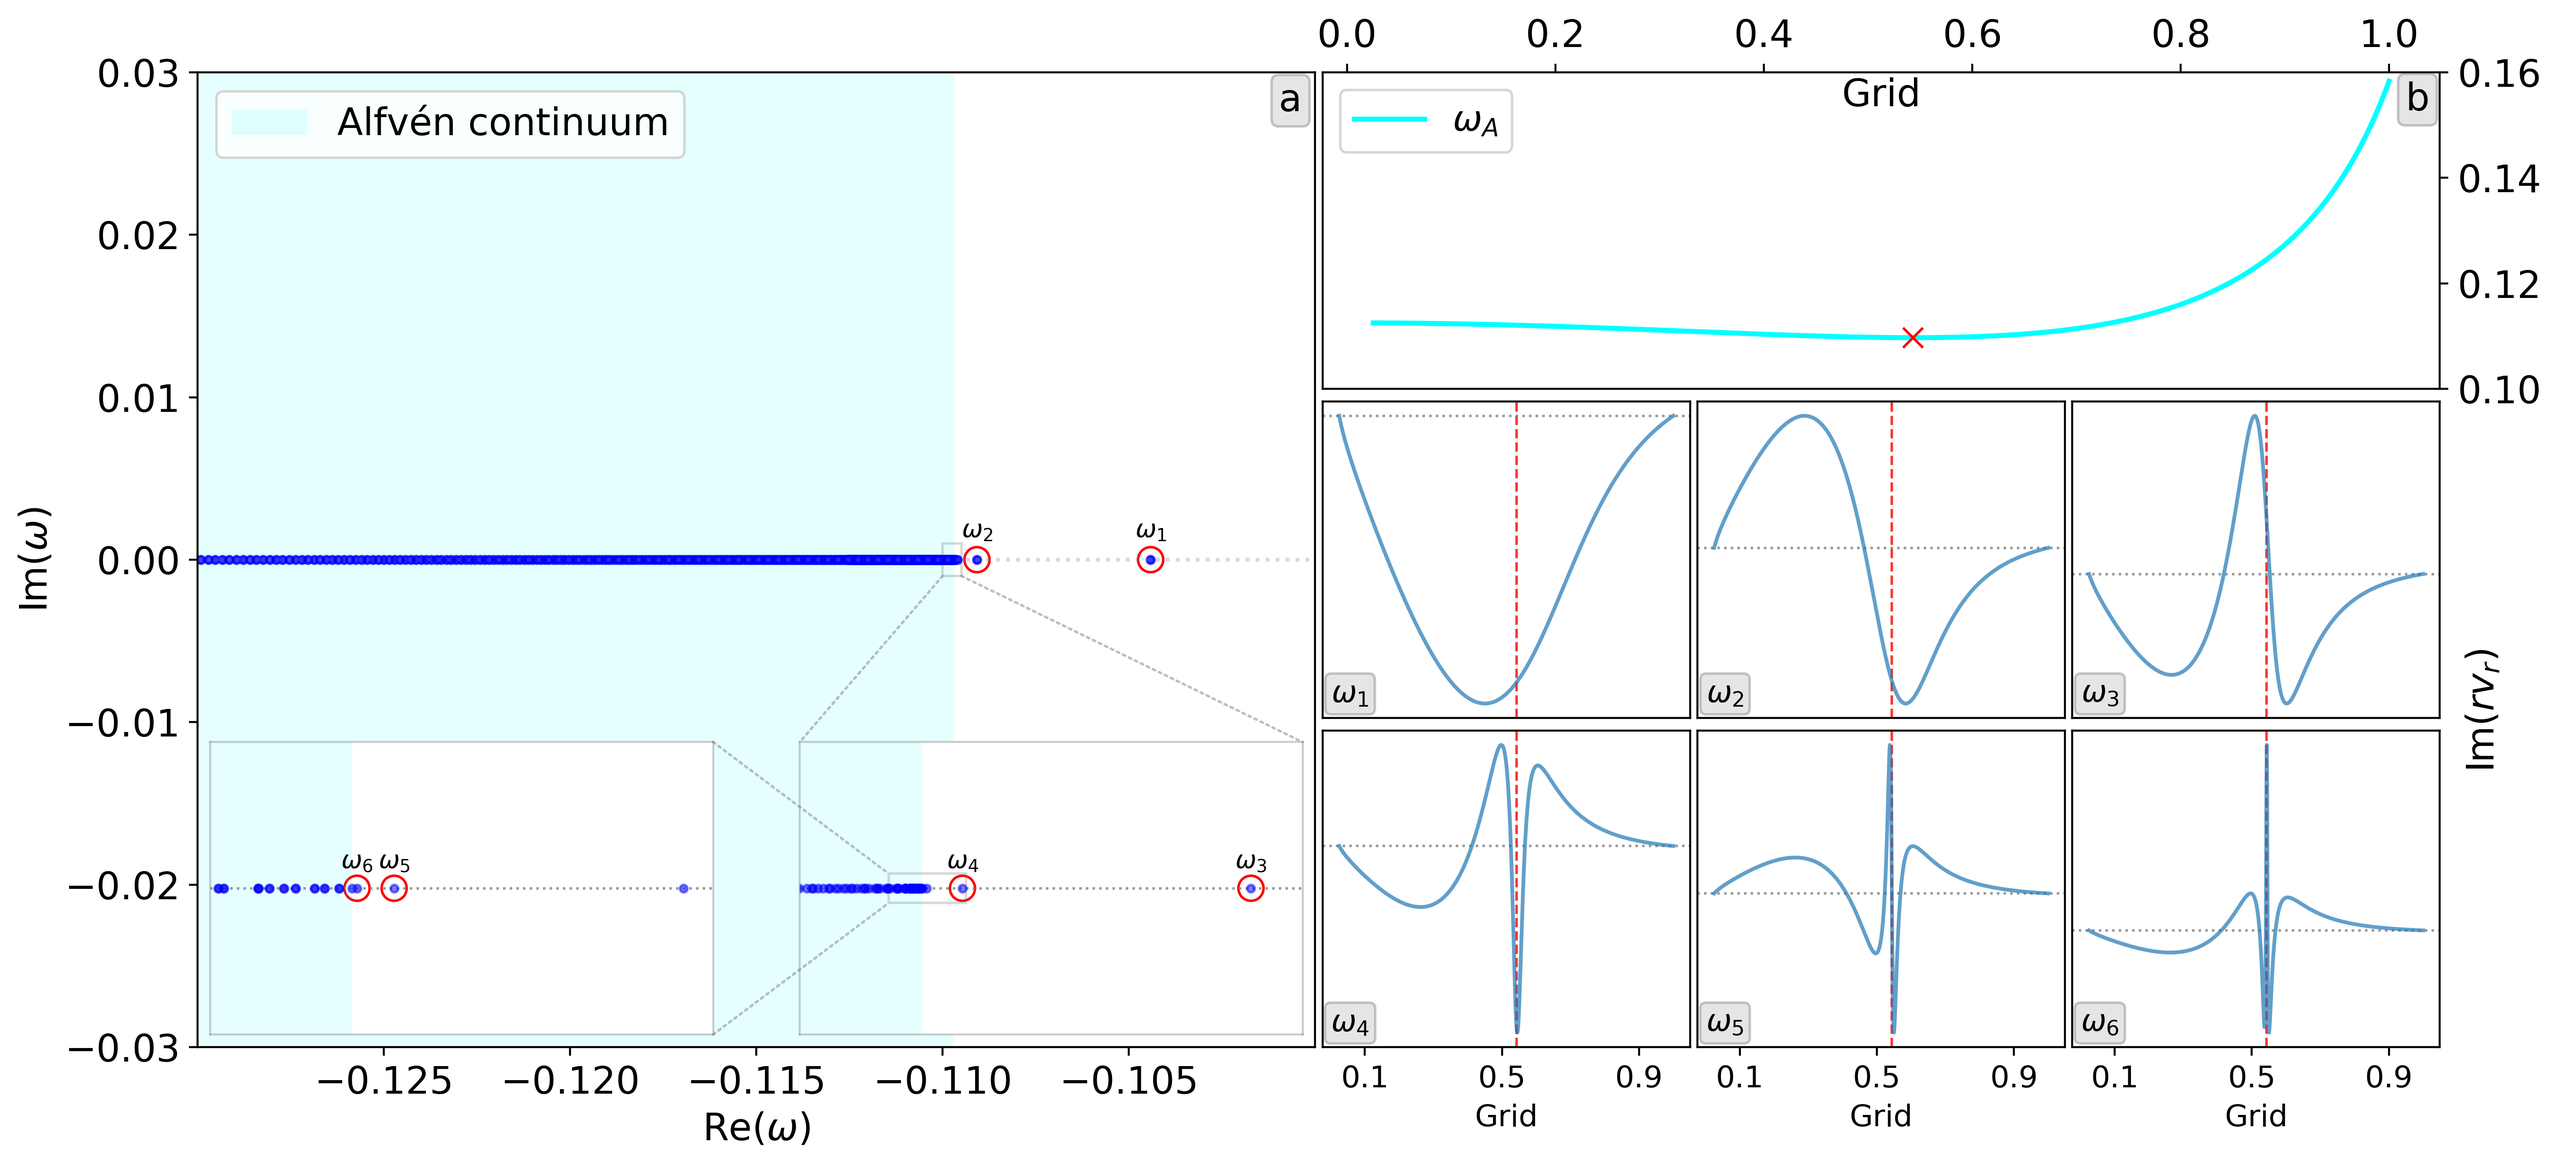
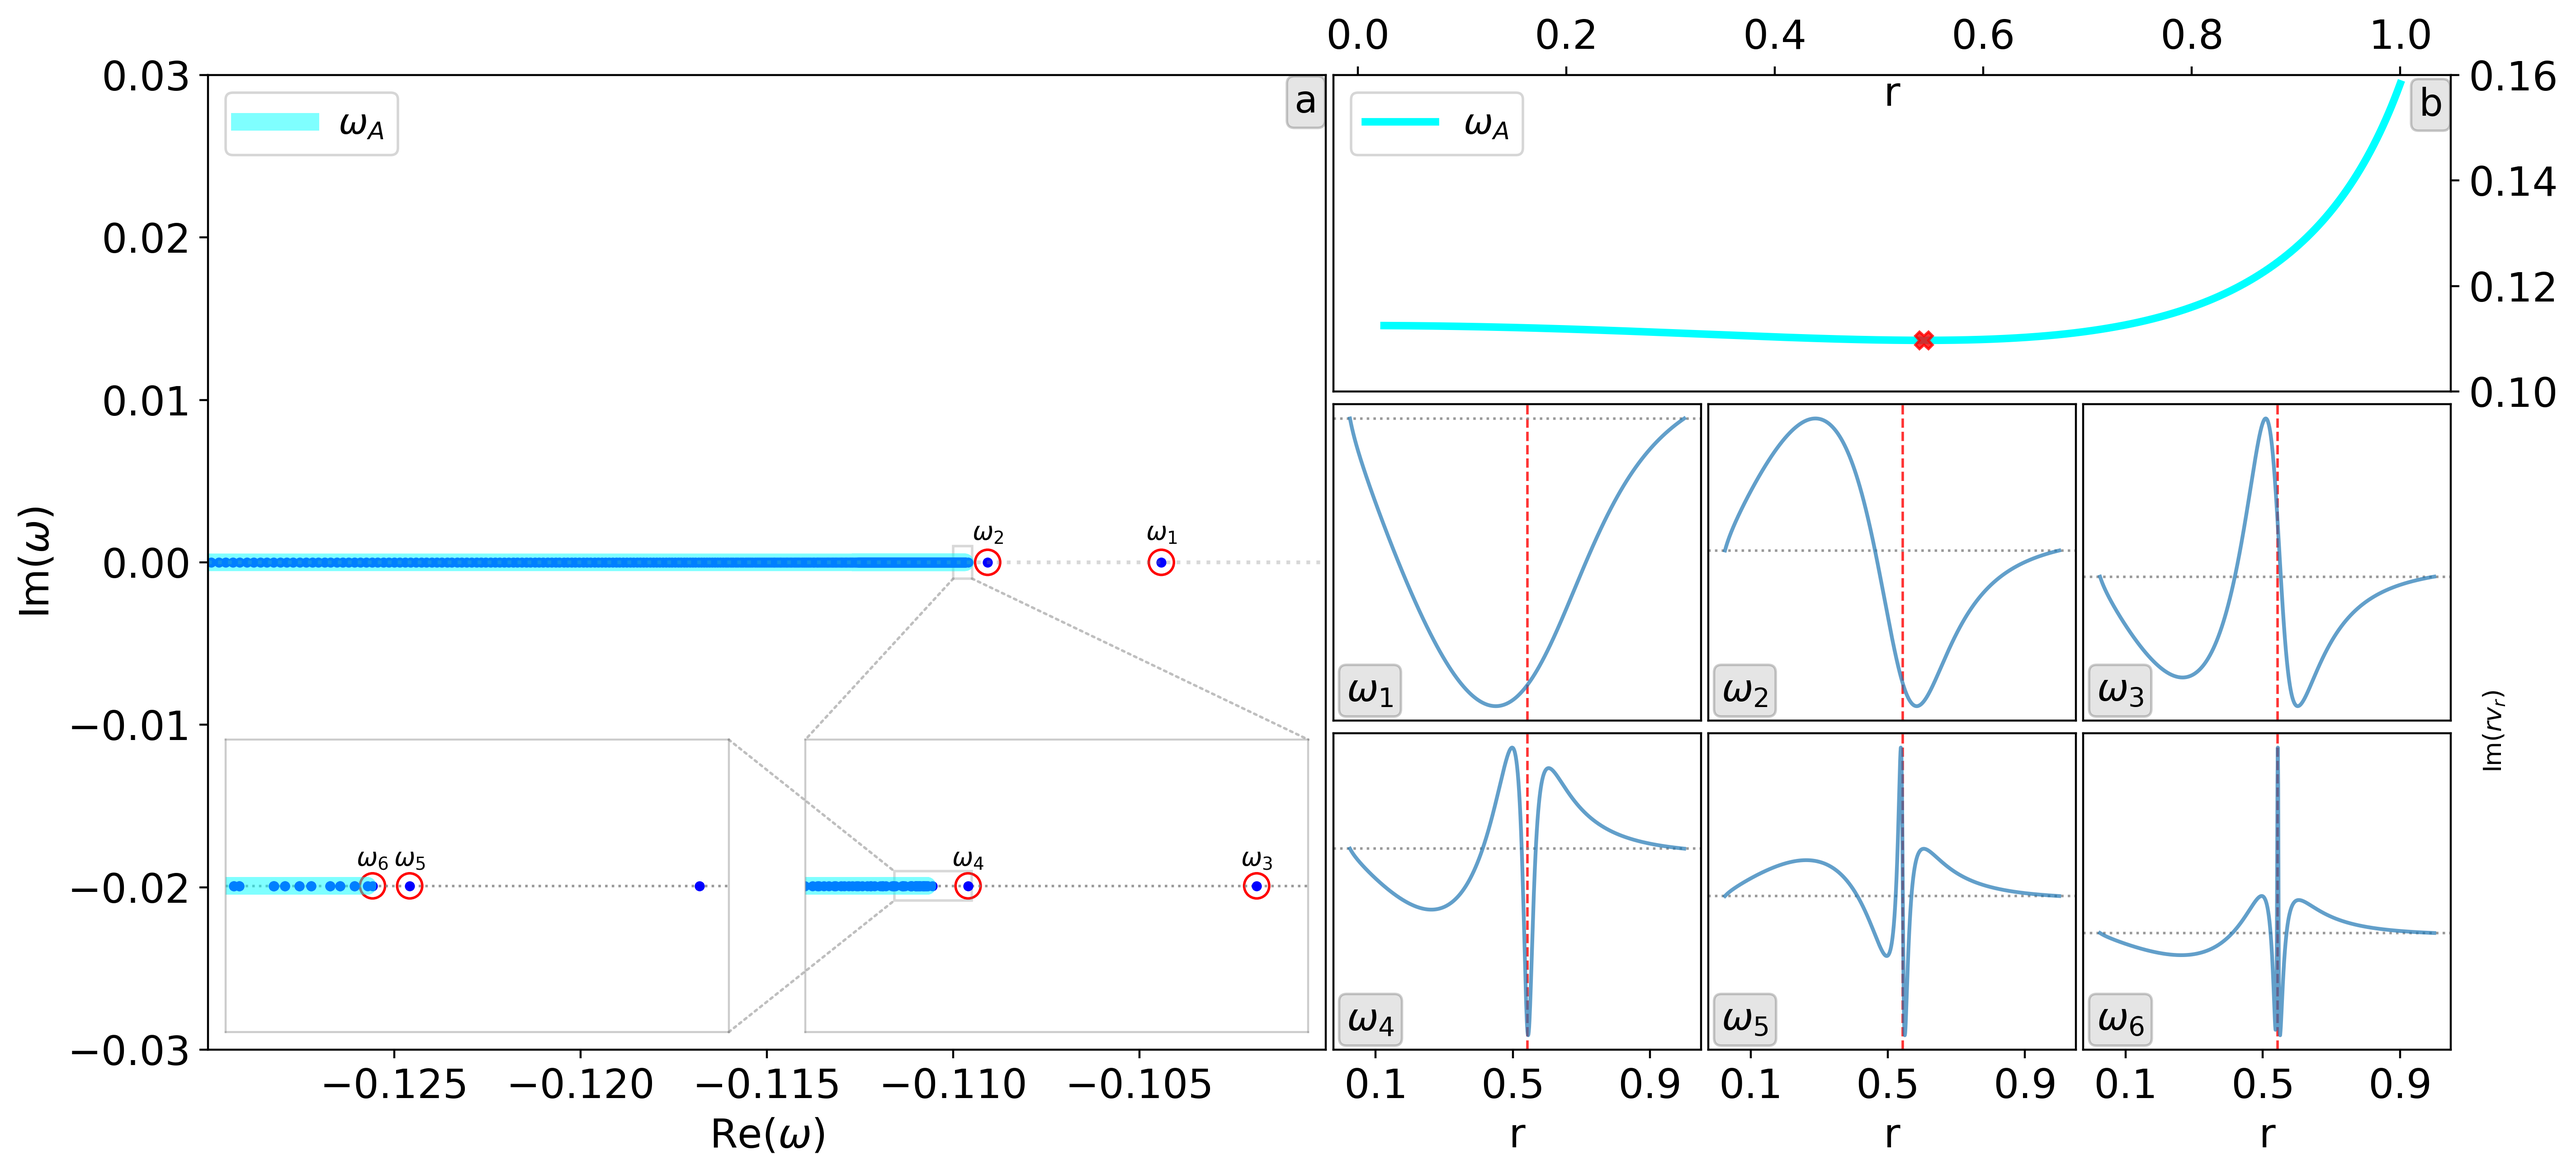
regenerated discrete alfven figure

diff --git a/notebooks/chapter5_figures.py b/notebooks/chapter5_figures.py
@@ -1,5 +1,6 @@
 import numpy as np
 import matplotlib.pyplot as plt
+import matplotlib.patches as patches
 from mpl_toolkits.axes_grid1.inset_locator import inset_axes
 from pathlib import Path
 import pylbo
@@ -59,7 +60,6 @@ def quasi_parker_figure():
         inset.set_yticks(yticks[idx])
         inset.yaxis.tick_right()
         inset.tick_params(axis="x", direction="in", pad=-15)
-        inset.tick_params(axis="both", labelsize=12)
         for side in ["left", "right", "top", "bottom"]:
             inset.spines[side].set_color("grey")
             inset.spines[side].set_alpha(0.4)
@@ -131,9 +131,208 @@ def quasi_parker_figure():
     plt.show()
 
 
+def discrete_alfven_figure():
+    filedir = (datadir / "11_discrete_alfven_efs/datfiles").resolve()
+    ds = pylbo.load(*sorted(filedir.glob("*.dat")))
+
+    fig, axes = plt.subplots(3, 6, figsize=(16, 7))
+    grid = axes[0, 1].get_gridspec()
+    [ax.remove() for ax in axes[:, 0:3].flatten()]
+    axl = fig.add_subplot(grid[:, 0:3])
+    [ax.remove() for ax in axes[0, 3::]]
+    axt = fig.add_subplot(grid[0, 3::])
+    mini_axes = axes[1::, 3::]
+
+    insetl = inset_axes(axl, width="45%", height="30%", loc="lower left")
+    insetr = inset_axes(axl, width="45%", height="30%", loc="lower right")
+
+    axl.plot(ds.eigenvalues.real, ds.eigenvalues.imag, ".b", alpha=1)
+    axl.axhline(y=0, linestyle="dotted", color="grey", alpha=0.3)
+    axl.axvline(x=0, linestyle="dotted", color="grey", alpha=0.3)
+    wa = ds.continua["alfven-"]
+    axl.plot(
+        np.real(wa), np.imag(wa), color="cyan", lw=7, alpha=0.5, label=r"$\omega_A$"
+    )
+    y1, y2 = -0.03, 0.03
+    insetr.set_xlim(-0.10972, -0.10959)
+    insetl.set_xlim(-0.109693, -0.109677)
+    for inset in (insetr, insetl):
+        inset.set_ylim(y1, y2)
+        inset.axhline(y=0, color="grey", linestyle="dotted", lw=1, alpha=0.8)
+        inset.plot(ds.eigenvalues.real, ds.eigenvalues.imag, ".b", alpha=1)
+        inset.set_xticks([])
+        inset.set_yticks([])
+        for side in ["left", "right", "top", "bottom"]:
+            inset.spines[side].set_color("grey")
+            inset.spines[side].set_alpha(0.4)
+        inset.plot(
+            np.real(wa),
+            np.imag(wa),
+            color="cyan",
+            lw=7,
+            alpha=0.5,
+            label=r"$\omega_A$",
+        )
+    insetr_bounds = patches.Rectangle(
+        (-0.11, -0.001),
+        width=5e-4,
+        height=0.002,
+        facecolor="none",
+        edgecolor="grey",
+        linestyle="solid",
+        alpha=0.3,
+        lw=1,
+    )
+    insetl_bounds = patches.Rectangle(
+        (-0.109697, -0.003),
+        width=2e-5,
+        height=0.006,
+        facecolor="none",
+        edgecolor="grey",
+        linestyle="solid",
+        alpha=0.3,
+        lw=1,
+    )
+    axl.add_patch(insetr_bounds)
+    insetr.add_patch(insetl_bounds)
+    axl.legend(loc="upper left")
+    cp1 = patches.ConnectionPatch(
+        (-0.11, -0.001),
+        (0, 1),
+        coordsA="data",
+        coordsB="axes fraction",
+        axesA=axl,
+        axesB=insetr,
+        linestyle="dotted",
+        color="grey",
+        alpha=0.5,
+    )
+    cp2 = patches.ConnectionPatch(
+        (-0.11 + 5e-4, -0.001),
+        (1, 1),
+        coordsA="data",
+        coordsB="axes fraction",
+        axesA=axl,
+        axesB=insetr,
+        linestyle="dotted",
+        color="grey",
+        alpha=0.5,
+    )
+    cp3 = patches.ConnectionPatch(
+        (1, 1),
+        (-0.109697, 0.003),
+        coordsA="axes fraction",
+        coordsB="data",
+        axesA=insetl,
+        axesB=insetr,
+        linestyle="dotted",
+        color="grey",
+        alpha=0.5,
+    )
+    cp4 = patches.ConnectionPatch(
+        (1, 0),
+        (-0.109697, -0.003),
+        coordsA="axes fraction",
+        coordsB="data",
+        axesA=insetl,
+        axesB=insetr,
+        linestyle="dotted",
+        color="grey",
+        alpha=0.5,
+    )
+    axl.add_artist(cp1)
+    axl.add_artist(cp2)
+    insetr.add_artist(cp3)
+    insetr.add_artist(cp4)
+
+    wa_min_idx = ds.continua["alfven+"].argmin()
+    axt.plot(ds.grid_gauss, -wa, color="cyan", lw=3, label=r"$\omega_A$")
+    axt.plot(
+        ds.grid_gauss[wa_min_idx],
+        -wa[wa_min_idx],
+        color="red",
+        marker="X",
+        markersize=7,
+        alpha=0.8,
+    )
+    axt.set_ylim(0.10, 0.16)
+    axt.yaxis.tick_right()
+    axt.xaxis.tick_top()
+    axt.xaxis.set_label_position("top")
+    axt.set_xlabel("r", labelpad=-35)
+    axt.legend(loc="upper left")
+
+    axl.set_xlabel(r"Re($\omega$)")
+    axl.set_ylabel(r"Im($\omega$)")
+    axl.set_xlim([-0.13, -0.1])
+    axl.set_xticks(np.arange(-0.125, -0.104, 0.005))
+    axl.set_ylim([-0.03, 0.03])
+
+    ev_guesses = [
+        -0.1044 + 1.7261e-7j,
+        -0.1091 + 6.6883e-8j,
+        -0.1096 + 8.3800e-9j,
+        -0.109678 + 2.53365e-9j,
+        -0.109687 + 3.77786e-10j,
+        -0.109688 + 7.44559e-11j,
+    ]
+    _, evs = ds.get_nearest_eigenvalues(ev_guesses)
+    for i, ev in enumerate(evs, start=1):
+        print("Eigenvalue found: {}".format(ev))
+        ax = axl
+        margin = 1.8e-3
+        text = r"$\omega_{}$".format(i)
+        if i > 2:
+            ax = insetr
+            margin = 5.5e-3
+        if i > 4:
+            ax = insetl
+            margin = 5.5e-3
+        ax.scatter(ev.real, ev.imag, s=100, edgecolor="red", facecolor="none")
+        ax.text(
+            ev.real,
+            ev.imag + margin,
+            text,
+            verticalalignment="center",
+            horizontalalignment="center",
+        )
+    eigfuncs = ds.get_eigenfunctions(ev_guesses=ev_guesses)
+    for i, ax in enumerate(mini_axes.flatten()):
+        ax.axvline(
+            x=ds.grid_gauss[wa_min_idx],
+            color="red",
+            linestyle="dashed",
+            lw=1,
+            alpha=0.8,
+        )
+        ax.axhline(y=0, color="grey", linestyle="dotted", lw=1, alpha=0.8)
+        rvr = eigfuncs[i].get("v1").imag * ds.ef_grid
+        ax.plot(ds.ef_grid, rvr, alpha=0.7)
+        ax.set_xticks([])
+        ax.set_yticks([])
+        text = r"$\omega_{}$".format(i + 1)
+        add_panel_label(ax, text, loc="bottom left")
+    for ax in mini_axes[-1, :]:
+        ax.set_xticks([0.1, 0.5, 0.9])
+        ax.set_xlabel("r")
+    fig.text(0.915, 1 / 3, r"Im$(rv_r)$", ha="center", rotation="vertical")
+
+    add_panel_label(axl, "a", loc="top right")
+    add_panel_label(axt, "b", loc="top right")
+
+    fig.subplots_adjust(hspace=0.04, wspace=0.02)
+    fig.savefig(
+        "../05-applying_legolas/figures/discrete_alfven.png",
+        bbox_inches="tight",
+        dpi=400,
+    )
+
+
 def main():
-    quasi_parker_figure()
+    # quasi_parker_figure()
+    discrete_alfven_figure()
 
 
 if __name__ == "__main__":
     main()
+    plt.show()
